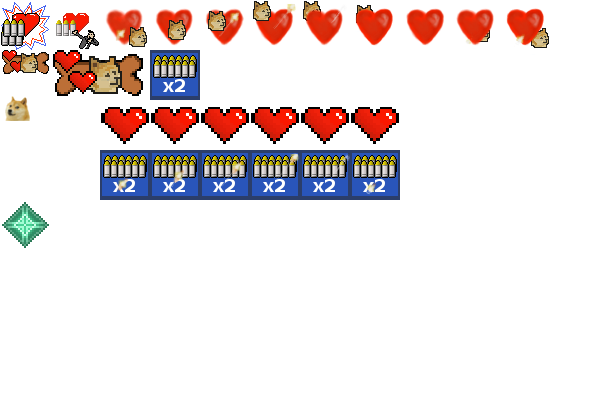
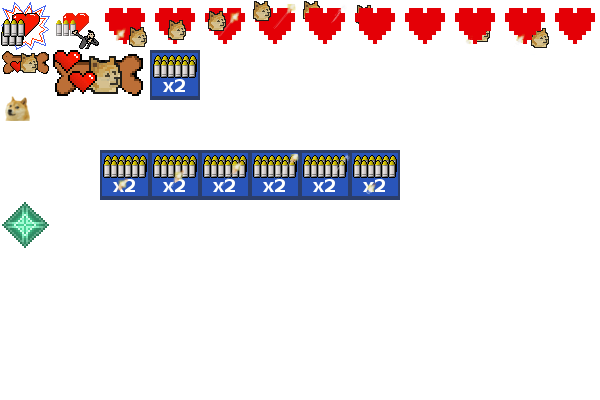
new life bars

Changed region(s): [[0.15, 0.0, 1.0, 0.12], [0.15, 0.27, 0.66, 0.36], [0.0, 0.12, 0.03, 0.15]]

diff --git a/app/scripts/game/models/models.js b/app/scripts/game/models/models.js
@@ -345,20 +345,26 @@ define( ['game/models/scene', 'petra'], function(Scene, petra){
 
   RenderableEntity.prototype.drawLife = function(ctx){
     var hitBoxWidth = this.getHitBox().width;
+
+    var lifeSize = 80;
     var chunkLifeValue = 10;
     var chunks = 0;
+    var minChunkSize = 5;
+    var maxChunksPerBar = lifeSize/minChunkSize;
+    var lifePerBar = maxChunksPerBar * chunkLifeValue;
 
+    /** Chunks of life */
     chunks = Math.round(this.totalLife / chunkLifeValue);
+    var chunksPerBar = chunks < maxChunksPerBar ? chunks : maxChunksPerBar;
     var aliveChunks = Math.round(this.life / chunkLifeValue);
-    var diff = this.totalLife / chunkLifeValue - chunks;
 
     //Todo change 100 by hitBoxWidth
-    var lifeSize = 80;
     var chunkSize = lifeSize / chunks;
-
+    chunkSize = chunkSize > minChunkSize ? chunkSize :  minChunkSize;
     //Draw red squares
+    
     ctx.beginPath();
-    for(var i = 0; i < chunks; i ++){
+    for(var i = 0; i < chunksPerBar; i ++){
       ctx.rect(lifeSize - (i+1) * chunkSize +1 , 0, chunkSize, 10);
     }
     ctx.fillStyle = 'rgba(255, 10, 0, 0.68)';
@@ -366,13 +372,39 @@ define( ['game/models/scene', 'petra'], function(Scene, petra){
     ctx.stroke();
 
     //Draw green squares
+    var index = 0;
+    var barNumber = 0;
+    var color = 'rgba(0, 255, 0, 0.68)';
+
     ctx.beginPath();
     for(var i = 0; i < aliveChunks; i++){
-      ctx.rect(i * chunkSize +1 , 0, chunkSize, 10);
+      if(i  % chunksPerBar  == 0 && i != 0){
+        index = 0;
+        barNumber++;
+        color = fillAndRenew(ctx, barNumber, color);
+      }
+      ctx.rect(index * chunkSize+1 , 0, chunkSize, 10);
+      index++;
     }
-    ctx.fillStyle = 'rgba(0, 255, 0, 0.68)';
+    fillColor(ctx, color);
+
+  }
+  function fillColor(ctx, color){
+    ctx.fillStyle = color;
     ctx.fill();
     ctx.stroke();
+  }
+  function fillAndRenew(ctx, barNumber, color){
+    fillColor(ctx,color);
+    ctx.beginPath();
+    
+    if(barNumber == 1){
+      return 'blue';
+    }else if(barNumber > 2 &&  barNumber < 5 ){
+      return 'pink';
+    }else{
+      return '#'+(0x1000000+(Math.random())*0xffffff).toString(16).substr(1,6);
+    }
   }
 
   RenderableEntity.prototype.resetAnimation = function(animation){
